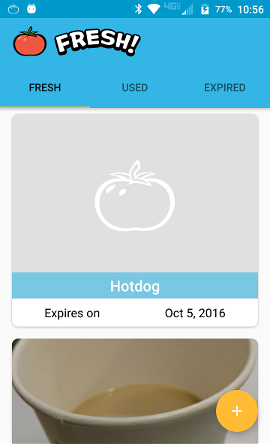
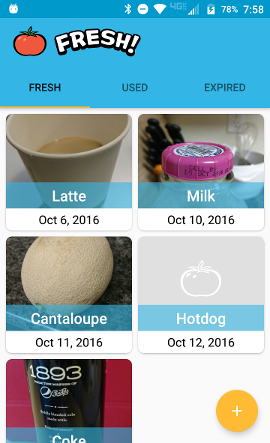
change recyclerview layout

diff --git a/app/src/main/java/com/yugegong/reminder/notification/AlarmBroadcastReceiver.java b/app/src/main/java/com/yugegong/reminder/notification/AlarmBroadcastReceiver.java
@@ -91,12 +91,13 @@ public class AlarmBroadcastReceiver extends BroadcastReceiver {
      */
     private NotificationCompat.Builder getNotificationBuilder() {
         long todayTime = Utils.getTodayTimeInMillis();
-        int days = (int)((mExpiredTimestamp - todayTime) / Utils.ONE_DAYS_IN_MILLIS) + 1;
-        String contentText = days < 0 ? mContext.getString(R.string.notif_product_expired_desc, mProductName) :
-                (days == 1 ? mContext.getString(R.string.notif_product_expiring_today_desc, mProductName) :
-                        mContext.getString(R.string.notif_product_expiring_desc, mProductName, days));
+        long diff = mExpiredTimestamp - todayTime;
+        long days = diff / Utils.ONE_DAYS_IN_MILLIS;
+        String contentText = diff < 0 ? mContext.getString(R.string.notif_product_expired_desc, mProductName) :
+                (days == 0 ? mContext.getString(R.string.notif_product_expiring_today_desc, mProductName) :
+                        mContext.getString(R.string.notif_product_expiring_desc, mProductName, days + 1));
 
-        Log.d(LOG_TAG, contentText);
+//        Log.d(LOG_TAG, contentText);
 
         final NotificationCompat.Builder builder = new NotificationCompat.Builder(mContext);
         builder.setPriority(Notification.PRIORITY_HIGH)

diff --git a/app/src/main/java/com/yugegong/reminder/ProductListFragment.java b/app/src/main/java/com/yugegong/reminder/ProductListFragment.java
@@ -117,11 +117,16 @@ public class ProductListFragment extends Fragment implements LoaderManager.Loade
         });
 
         mRecyclerView.setAdapter(mReminderAdapter);
-        if (getResources().getConfiguration().orientation == Configuration.ORIENTATION_PORTRAIT) {
-            mLayoutManger = new LinearLayoutManager(getContext());
-        } else {
-            mLayoutManger = new GridLayoutManager(getContext(), 2);
+//        if (getResources().getConfiguration().orientation == Configuration.ORIENTATION_PORTRAIT) {
+//            mLayoutManger = new LinearLayoutManager(getContext());
+//        } else {
+//            mLayoutManger = new GridLayoutManager(getContext(), 2);
+//        }
+        int columnNum = 2;
+        if (getResources().getConfiguration().orientation == Configuration.ORIENTATION_LANDSCAPE) {
+            columnNum = 3;
         }
+        mLayoutManger = new GridLayoutManager(getContext(), columnNum);
 
         mRecyclerView.setLayoutManager(mLayoutManger);
 
